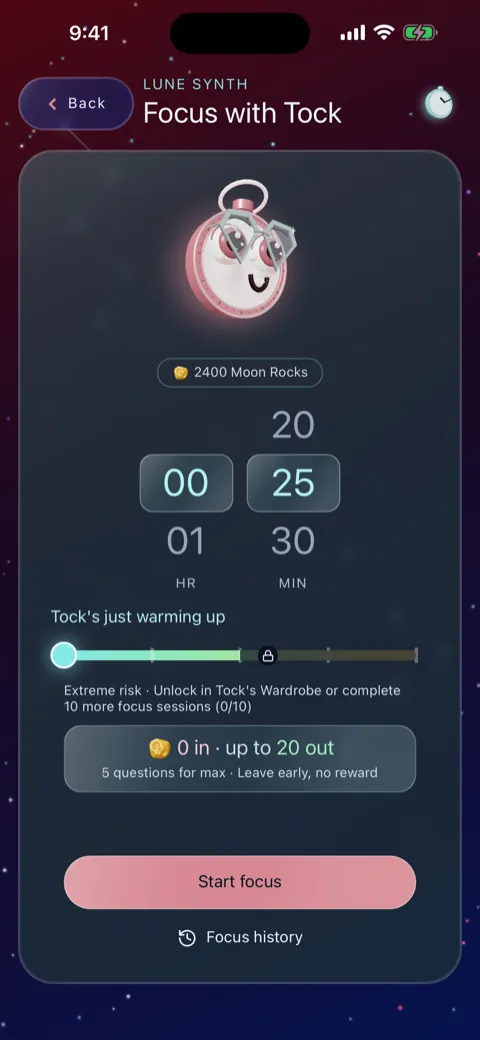
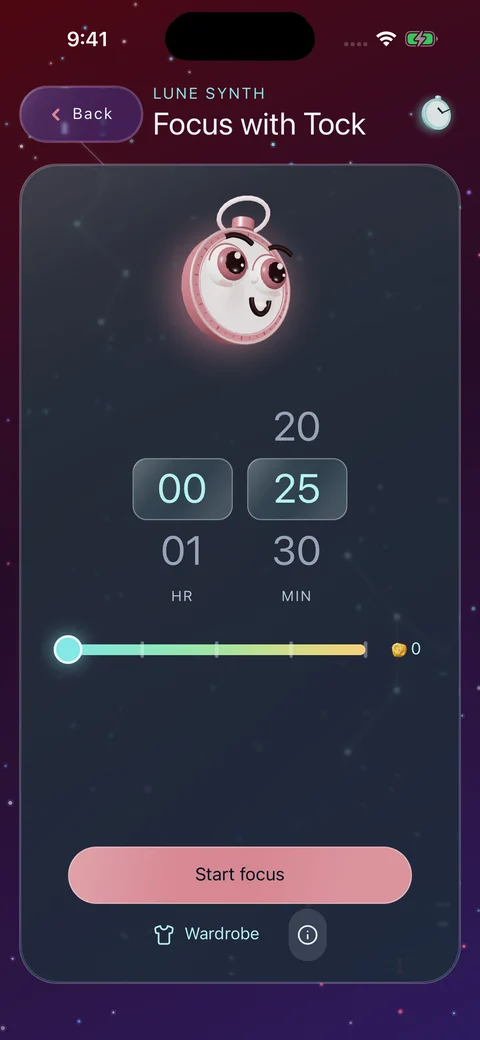
feat(lune-synth): refresh Tock screenshots with the current Tock UI
Recaptured 3 of the 4 Tock carousel shots from the real app (Lune Beta QA
iPhone 17 simulator, DEV `-lunaDevScreen` showcase harness) to reflect
today's Focus-timer-card simplification (wheels + compact risk slider +
Start focus + Wardrobe + info button, no more balance chip or tier-heading
text on the card) and the Wardrobe's refreshed collection-count copy:

- tock-focus-setup: `focus-timer-risk-none`, idle setup card.
- tock-focus-extreme: `focus-timer-tiers-extreme`, compact slider pinned to
  Extreme with Insane still locked; alt text updated to match (no longer
  claims a session is "in progress", since neither the old nor the new
  capture shows one -- both are the setup panel).
- tock-wardrobe-reader: `wardrobe-reader-shop`, Tock in the gold set above
  the Hats/Eyewear catalogue covers with the Eyewear reader open on Gold
  Sunburst Shades (unchanged alt text, still accurate).

tock-fullscreen is intentionally left unchanged: the real full-screen Tock
viewer (Wardrobe's "Full screen" button / tapping Tock on the timer) is
reproducibly blank on this simulator -- confirmed across the DEV showcase,
a real button tap with the currently-equipped gold outfit, a drag gesture,
and a clean simulator reboot, each followed by waits up to 45s. Tock's
caption and hint text render; only the GLView canvas never paints. This
looks like a Modal + expo-gl interaction specific to
`TockFullscreenViewer`'s `overFullScreen` Modal (the same `TockViewer`
[…]

diff --git a/lune-synth/index.html b/lune-synth/index.html
@@ -14246,7 +14246,7 @@
                     <div class="phone-mock__screen">
                       <picture>
                         <source media="(min-width: 900px)" srcset="/mobile-app-assets/screenshots/applied/tock/tock-focus-extreme.webp" />
-                        <img src="/mobile-app-assets/screenshots/applied/tock/tock-focus-extreme-mid.webp" alt="A focus session in progress with Tock on screen" width="480" height="1040" loading="lazy" decoding="async" />
+                        <img src="/mobile-app-assets/screenshots/applied/tock/tock-focus-extreme-mid.webp" alt="The focus timer's compact risk slider pushed to Extreme stakes, with Insane still locked and Tock going extreme" width="480" height="1040" loading="lazy" decoding="async" />
                       </picture>
                     </div>
                     <div class="phone-shell-buttons" aria-hidden="true">
